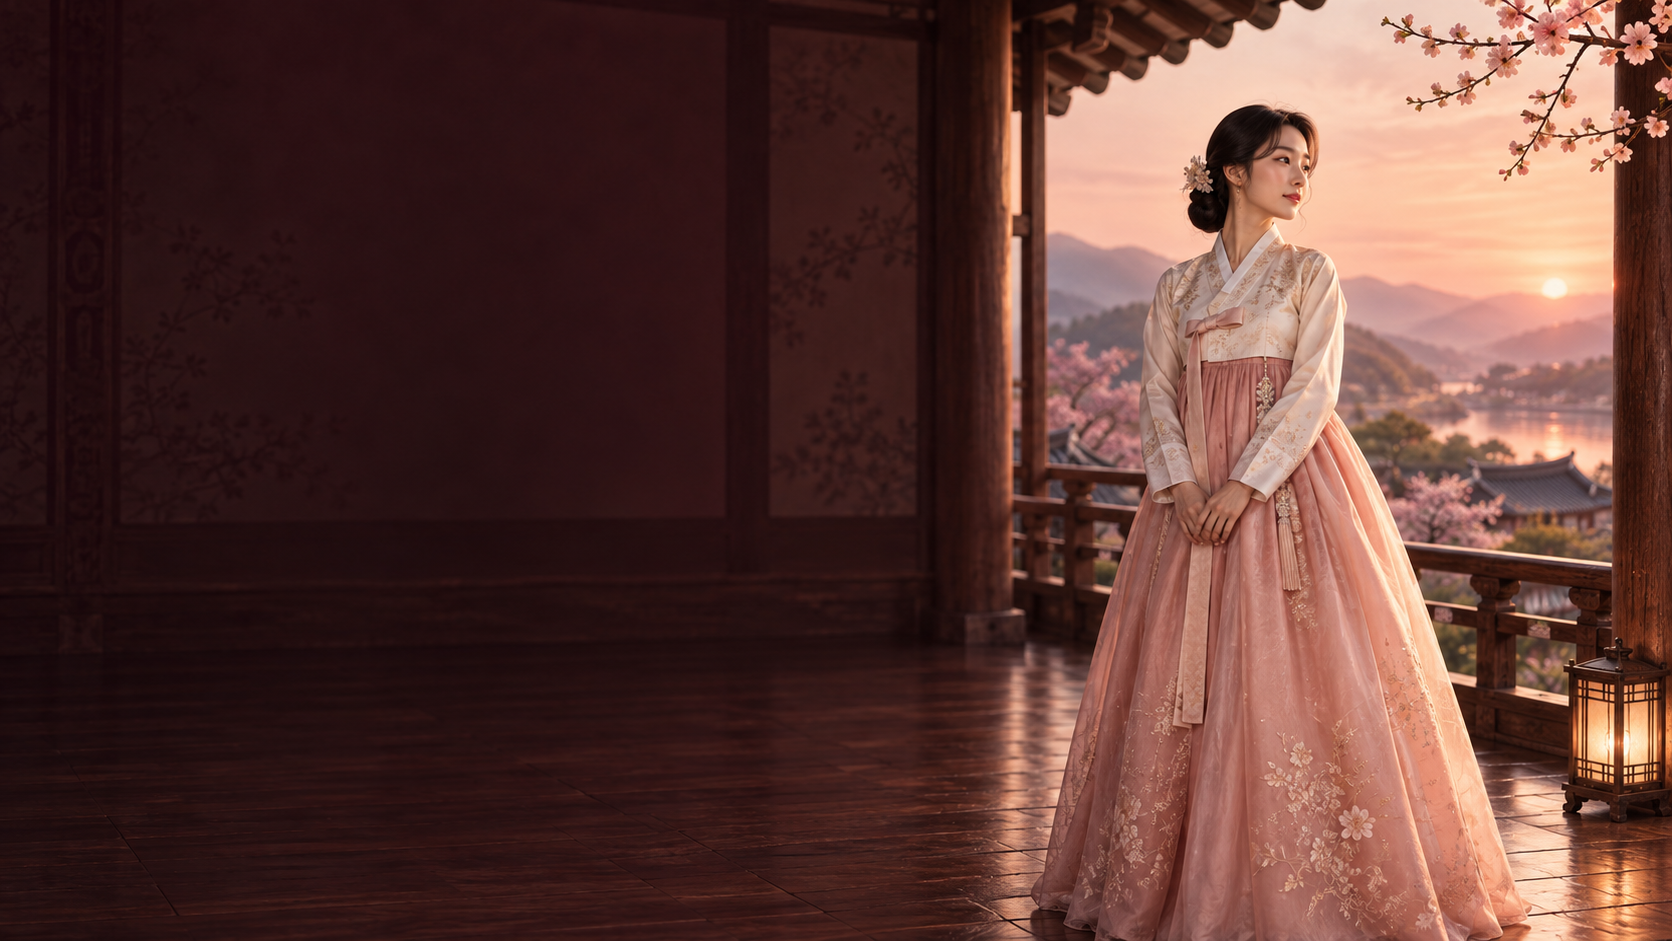
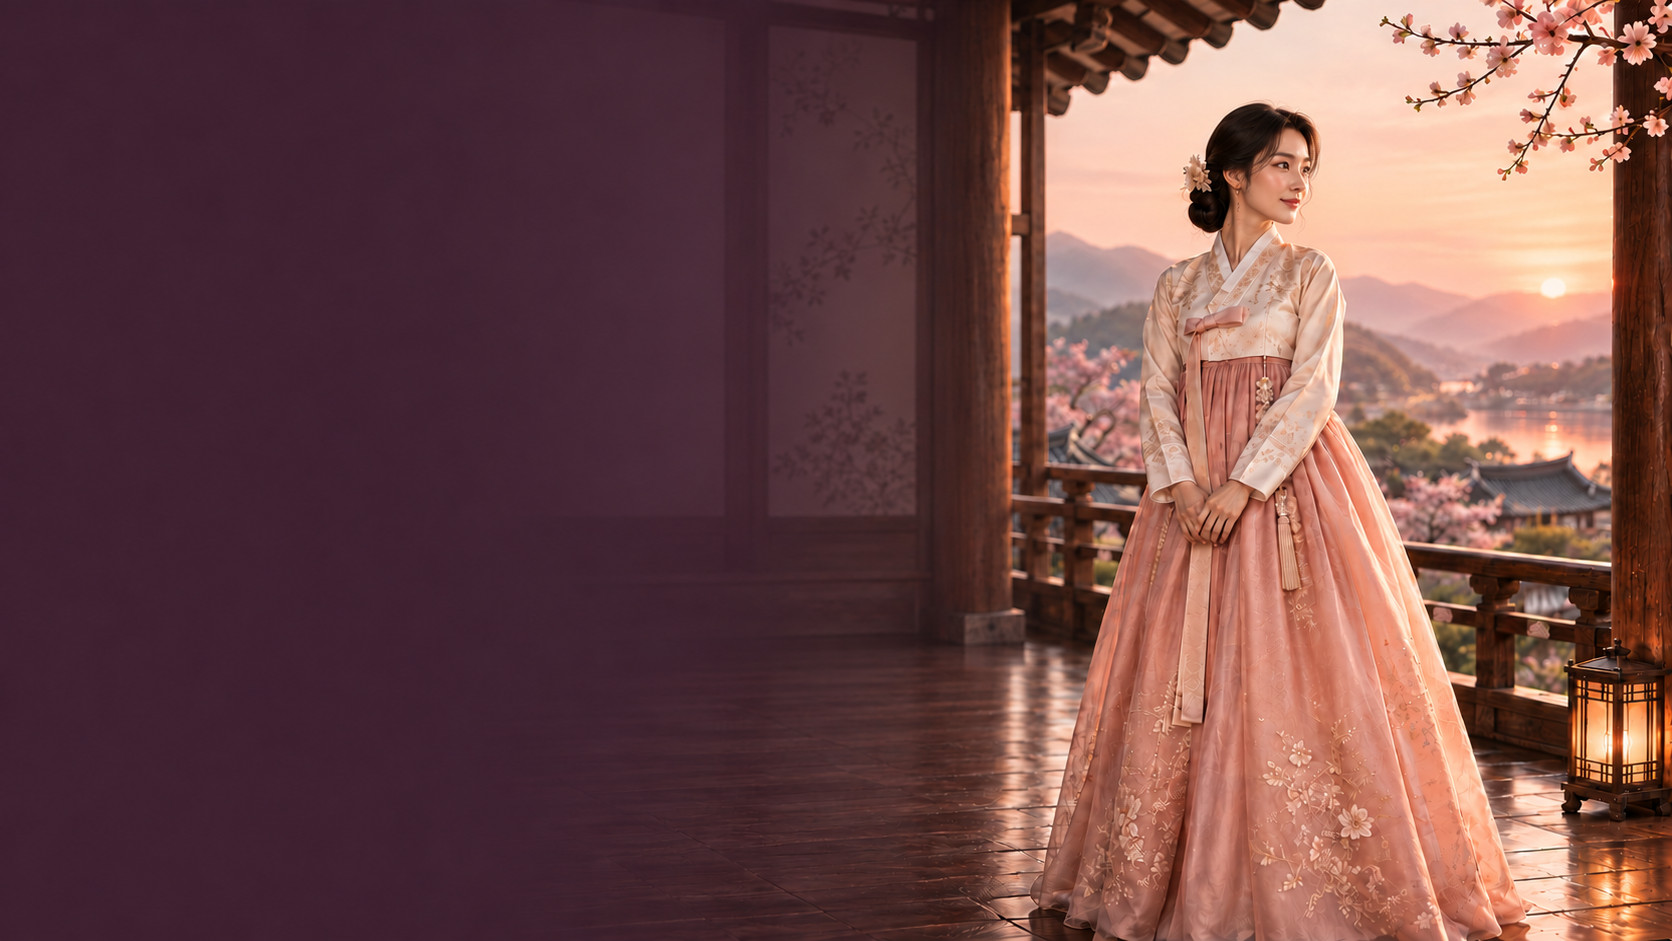
연애비급: 재회비방 안내 카드 그라데이션 수정 및 최종 배너 이미지 갱신

diff --git a/app/reports/love-secret/page.tsx b/app/reports/love-secret/page.tsx
@@ -54,7 +54,7 @@ const productData = {
   recommendedImage: '/image/love-secret/love-secret-keep-yourself-3x4.png',
   structureImage: '/image/love/l4.webp',
   premiumImage: '/image/love-secret/love-secret-contents.png?v=20261102_v2',
-  ctaImage: '/image/love-secret/love-secret-closing-banner.png?v=20261102',
+  ctaImage: '/image/love-secret/love-secret-closing-banner.png?v=20261105',
 }
 
 // 🖼 신규 교체형 이미지 슬롯 컴포넌트
@@ -2786,12 +2786,12 @@ export default function LoveSecretEbookPage() {
                   })}
                 </div>
 
-                {/* FAQ 하단 상시 노출: 재회비방 안내 카드 (FAQ와 가로폭 동일, 은은한 글라스 퍼플) */}
+                {/* FAQ 하단 상시 노출: 재회비방 안내 카드 (FAQ와 가로폭 동일, 좌측 로즈코코아 -> 우측 백도화 딥퍼플 그라데이션) */}
                 <div
-                  className="mt-8 md:mt-10 p-5 sm:p-6 md:p-7 rounded-2xl border border-[#D4B2A7]/25 relative overflow-hidden"
+                  className="mt-8 md:mt-10 p-5 sm:p-6 md:p-7 rounded-2xl border border-[#D4B2A7]/30 backdrop-blur-md relative overflow-hidden"
                   style={{
-                    background: 'linear-gradient(135deg, rgba(74, 35, 43, 0.35) 0%, rgba(15, 6, 20, 0.85) 100%)',
-                    boxShadow: '0 8px 30px rgba(0, 0, 0, 0.3)'
+                    background: 'linear-gradient(to right, rgba(62, 28, 39, 0.9) 0%, rgba(42, 19, 34, 0.88) 40%, rgba(24, 12, 28, 0.92) 75%, rgba(10, 5, 20, 0.96) 100%)',
+                    boxShadow: '0 12px 36px rgba(0, 0, 0, 0.4), inset 0 0 0 1px rgba(212, 178, 167, 0.15)'
                   }}
                 >
                   <div className="flex flex-col sm:flex-row sm:items-center sm:justify-between gap-4">
@@ -2910,7 +2910,7 @@ export default function LoveSecretEbookPage() {
             {/* ═══════════════════════════════════════════════════════════════
                 기존 최종 CTA 보존 (가로형 와이드 16:9 대형 배너, 1280px 너비 매칭)
                ═══════════════════════════════════════════════════════════════ */}
-            <section className="relative overflow-hidden rounded-3xl md:rounded-[40px] mb-20 border border-[#D4B2A7]/40 shadow-2xl bg-[#1F0710] lg:min-h-[640px] xl:min-h-[670px] w-full max-w-[1280px] mx-auto">
+            <section className="relative overflow-hidden rounded-3xl md:rounded-[40px] mb-20 border border-[#D4B2A7]/40 shadow-2xl bg-[#3E2031] lg:min-h-[640px] xl:min-h-[670px] w-full max-w-[1280px] mx-auto">
               {/* 1. 배경 이미지 영역:
                   - 업로드된 원본 사이즈(1672:941) 그대로 세로 사이즈를 크게 확보
                   - object-[85%_top]으로 위쪽 머리 실루엣이 절대 잘리지 않도록 상단 기준 배치 */}
@@ -2924,9 +2924,9 @@ export default function LoveSecretEbookPage() {
                   priority
                 />
                 {/* PC 전용: 왼쪽 텍스트 가독성 확보용 은은한 다크 그라데이션 (우측 인물 머리 및 실루엣은 100% 선명하게 노출) */}
-                <div className="hidden lg:block absolute inset-0 z-[1] bg-gradient-to-r from-[#18050C]/95 via-[#18050C]/80 to-transparent w-[62%]" />
+                <div className="hidden lg:block absolute inset-0 z-[1] bg-gradient-to-r from-[#3E2031]/95 via-[#3E2031]/80 to-transparent w-[62%]" />
                 {/* 모바일 전용: 이미지와 하단 텍스트 영역 사이의 자연스러운 그라데이션 페이드 */}
-                <div className="lg:hidden absolute inset-x-0 bottom-0 h-14 bg-gradient-to-t from-[#1F0710] to-transparent z-[1]" />
+                <div className="lg:hidden absolute inset-x-0 bottom-0 h-14 bg-gradient-to-t from-[#3E2031] to-transparent z-[1]" />
               </div>
 
               {/* 2. 텍스트 및 구매 버튼 영역:

diff --git a/app/reports/love-secret/assets.ts b/app/reports/love-secret/assets.ts
@@ -92,14 +92,14 @@ export const loveSecretAssets: Record<string, LoveSecretAssetItem> = {
     description: 'love-secret-chat-preview.png'
   },
 
-  // 8. Final CTA: 매혹의 열쇠 오브제
+  // 8. Final CTA: 배너 (선택받기 위해 애쓰지 마세요)
   finalCta: {
     id: 'finalCta',
-    src: 'final_love_bg_placeholder.png',
-    alt: '매혹의 열쇠 오브제',
-    aspectRatio: 'aspect-[16/9]',
+    src: '/image/love-secret/love-secret-closing-banner.png?v=20261105',
+    alt: '선택받기 위해 애쓰지 마세요. 이제, 당신이 선택하세요 - 연애비급',
+    aspectRatio: 'aspect-[1672/941]',
     objectFit: 'cover',
-    placeholderLabel: '매혹의 열쇠 오브제 (최종 CTA)',
-    description: 'final_love_bg_placeholder.png'
+    placeholderLabel: '선택받기 위해 애쓰지 마세요 (최종 배너)',
+    description: 'love-secret-closing-banner.png'
   }
 }
